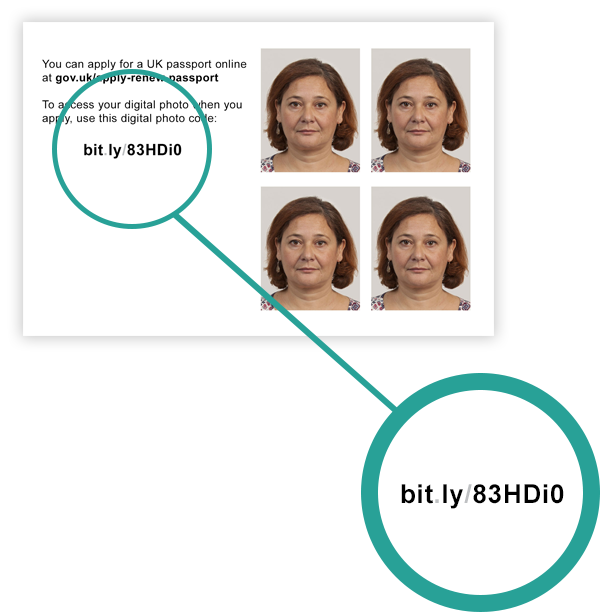
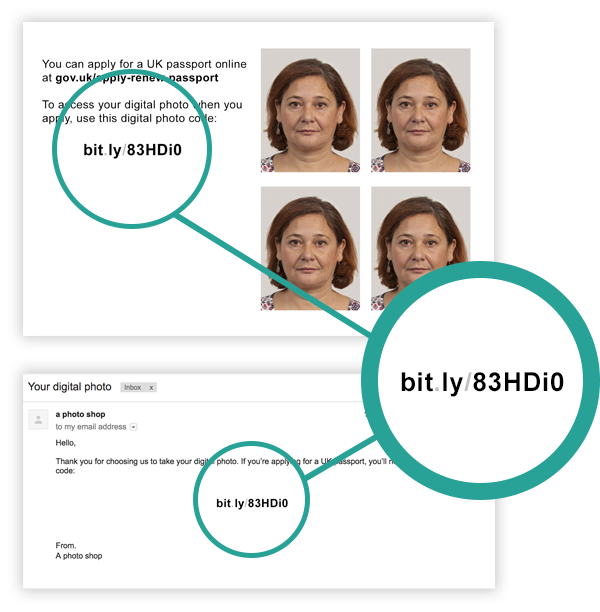
Amending the image & content
Image now to contain both email and printed photo graphics to occupy
less space on the right hand column

diff --git a/views/prototype_oix_170601/intro/get-photo-code.html b/views/prototype_oix_170601/intro/get-photo-code.html
@@ -9,7 +9,7 @@
 {{$content}}
     {{< hmpo-partials-form}}
     {{$form}}
-
+      <p>A photo shop will email your code to you. A booth will print the code next to your photos.</p>
         <div id="photo-code-group" class="form-group">
             <label for="photo-code" class="form-label-bold">
             Digital photo code
@@ -44,14 +44,15 @@
     <div class="sidebar related">
       <div class="photo-preview-inner">
           <h2 class="heading-medium">Where to find your code</h2>
-          <p>On printed photos from a booth</p>
           <div class="photo">
               <img src="../../public/images/printed-photo-code.png" alt="Your uploaded photo" title="Your uploaded photo" width="300">
           </div>
+           <!--
            <p>Or, in an email from a shop</p>
            <div class="photo">
                <img src="../../public/images/email-photo-code.png" alt="Your uploaded photo" title="Your uploaded photo" width="300">
            </div>
+         -->
       </div>
 
     </div>
